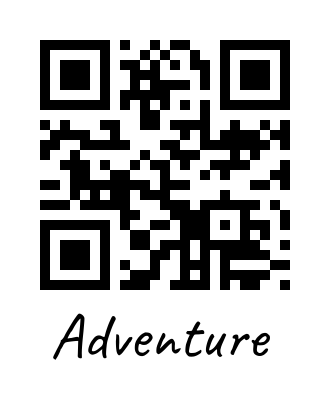
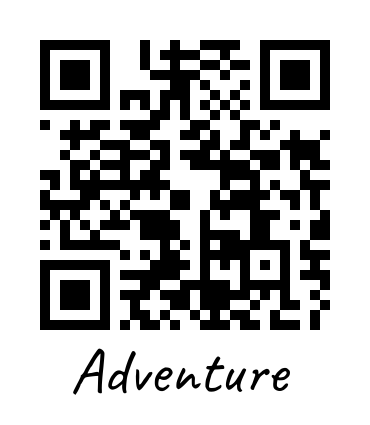
Fixed with new addr

diff --git a/qr_gen.py b/qr_gen.py
@@ -13,7 +13,7 @@ external_ip = urllib.request.urlopen('https://ident.me').read().decode('utf8')
 # font = ImageFont.truetype(BytesIO(req.content), 72,)
 font = ImageFont.truetype("Caveat/Caveat-VariableFont_wght.ttf", 64)
 
-ip = f'http://{external_ip}:5000'
+static_addr = f'http://advntr.duckdns.org:5000'
 
 files = os.listdir('templates')
     
@@ -21,12 +21,12 @@ for line in files:
     line = os.path.splitext(line)[0]
     if len(line) > 3:
         continue
-    print(ip + '/' + line)
-    img = qrcode.make(ip + '/' + line)
+    print(static_addr + '/' + line)
+    img = qrcode.make(static_addr + '/' + line)
     im1 = Image.new('RGB',
-                 (335, 400),   # A4 at 72dpi
+                 (335+35, 400+25),   # A4 at 72dpi
                  (255, 255, 255))  # White
     im1.paste(img, img.getbbox())
     draw = ImageDraw.Draw(im1)
-    draw.text((50, 295), "Adventure", font=font, align="center", fill='black')
+    draw.text((50+20, 295+35), "Adventure", font=font, align="center", fill='black')
     im1.save("qr_codes/" + line + ".png")
